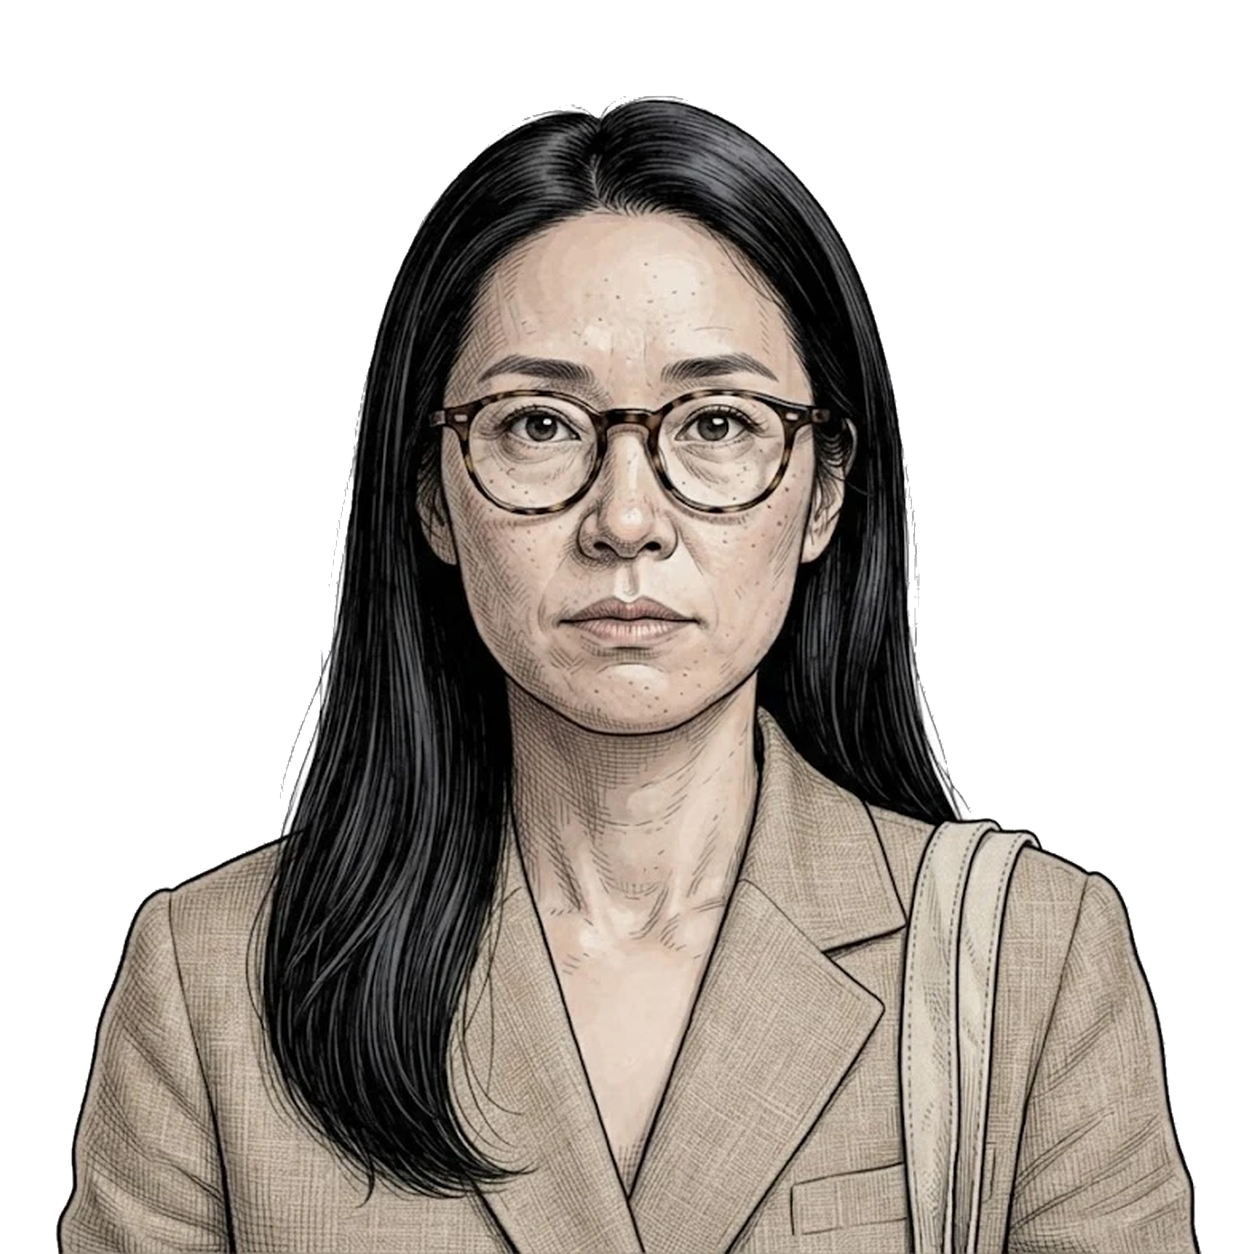
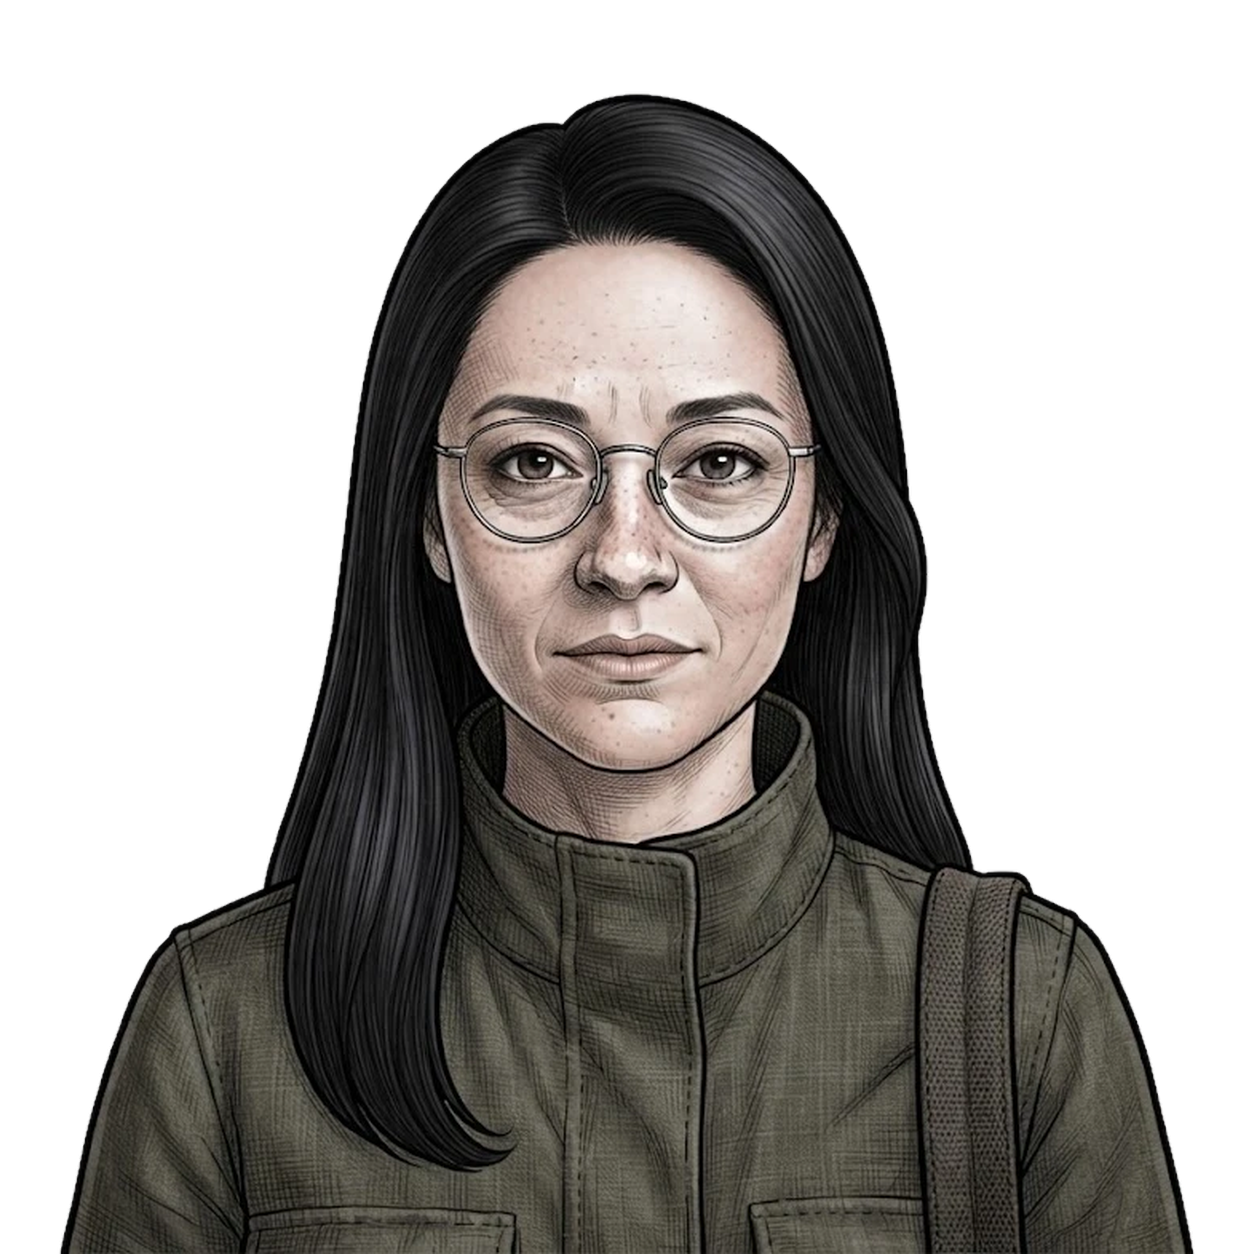
Portreler yenilendi: greta, sofia, kaya, naomi, rivka (halesiz)

diff --git a/Docs/IMAGE_REDO_PROMPTS.md b/Docs/IMAGE_REDO_PROMPTS.md
@@ -276,31 +276,31 @@ Forensic evidence illustration, three-quarter view on a neutral grey evidence ma
 
 Sorun: beyaz zeminden kesilirken saç uçlarında ve açık renk giysi kenarında beyaz hale kalıyor. Prompt'lar bunu baştan önleyecek biçimde değiştirildi: koyu kesintisiz dış çizgi, toplu ve koyu gölgeli saç, açık renk giysi yok, parlama yok. Karakterin kimliği (yaş, köken, saç rengi, ifade) aynı.
 
-## Greta Lombardi → `Characters/greta.png`
+## ✅ Greta Lombardi → `Characters/greta.png`
 
 ```
 A 30-year-old Italian woman, honey-blond hair tied back neatly in a low ponytail, shaded darker at the edges, swollen eyes from crying, freckles. Dusty mid-blue nurse's scrub top under an open denim jacket. Head-and-shoulders portrait only, arms and hands not visible, no table, facing the camera directly, eyes looking at the viewer, neutral seated posture as if across an interrogation table. Detailed ink-line graphic-novel illustration with soft painted shading, muted realistic colours, same style as a gritty detective game character sheet. Plain solid pure white background, no shadow on the background, no text, no border, no badges or insignia. CUTOUT RULES: the whole figure is surrounded by one bold, continuous, dark black ink outline with no gaps; hair is drawn as solid, dark-shaded masses with crisp outlined edges, no loose flyaway strands, no wispy or translucent hair, no light-coloured highlights on the outer edge of the hair; clothing is mid-to-dark in tone, nothing white, cream or pale grey anywhere on the outer silhouette; no rim light, no glow, no soft fade, no white outline, no halo around the figure; the background is flat pure white #FFFFFF and touches the dark outline directly.
 ```
 
-## Sofia Marchetti → `Characters/sofia.png`
+## ✅ Sofia Marchetti → `Characters/sofia.png`
 
 ```
 A 35-year-old Italian soprano, long auburn hair, styled smooth and close to the head, fair skin, dramatic dark eyeliner, proud wounded eyes. A golden opera costume gown with a velvet cloak over her shoulders. Head-and-shoulders portrait only, arms and hands not visible, no table, facing the camera directly, eyes looking at the viewer, neutral seated posture as if across an interrogation table. Detailed ink-line graphic-novel illustration with soft painted shading, muted realistic colours, same style as a gritty detective game character sheet. Plain solid pure white background, no shadow on the background, no text, no border, no badges or insignia. CUTOUT RULES: the whole figure is surrounded by one bold, continuous, dark black ink outline with no gaps; hair is drawn as solid, dark-shaded masses with crisp outlined edges, no loose flyaway strands, no wispy or translucent hair, no light-coloured highlights on the outer edge of the hair; clothing is mid-to-dark in tone, nothing white, cream or pale grey anywhere on the outer silhouette; no rim light, no glow, no soft fade, no white outline, no halo around the figure; the background is flat pure white #FFFFFF and touches the dark outline directly.
 ```
 
-## Elif Kaya → `Characters/kaya.png`
+## ✅ Elif Kaya → `Characters/kaya.png`
 
 ```
 A 31-year-old Turkish woman, long dark brown hair, smooth and gathered over one shoulder, warm brown eyes, nervous careful smile. A navy blue rehearsal top with a flamenco practice skirt. Head-and-shoulders portrait only, arms and hands not visible, no table, facing the camera directly, eyes looking at the viewer, neutral seated posture as if across an interrogation table. Detailed ink-line graphic-novel illustration with soft painted shading, muted realistic colours, same style as a gritty detective game character sheet. Plain solid pure white background, no shadow on the background, no text, no border, no badges or insignia. CUTOUT RULES: the whole figure is surrounded by one bold, continuous, dark black ink outline with no gaps; hair is drawn as solid, dark-shaded masses with crisp outlined edges, no loose flyaway strands, no wispy or translucent hair, no light-coloured highlights on the outer edge of the hair; clothing is mid-to-dark in tone, nothing white, cream or pale grey anywhere on the outer silhouette; no rim light, no glow, no soft fade, no white outline, no halo around the figure; the background is flat pure white #FFFFFF and touches the dark outline directly.
 ```
 
-## Naomi Park → `Characters/naomi.png`
+## ✅ Naomi Park → `Characters/naomi.png`
 
 ```
 A 36-year-old Korean-American woman, long straight black hair, round glasses, sharp intelligent face. A dark olive linen jacket with a canvas tote strap on her shoulder. Head-and-shoulders portrait only, arms and hands not visible, no table, facing the camera directly, eyes looking at the viewer, neutral seated posture as if across an interrogation table. Detailed ink-line graphic-novel illustration with soft painted shading, muted realistic colours, same style as a gritty detective game character sheet. Plain solid pure white background, no shadow on the background, no text, no border, no badges or insignia. CUTOUT RULES: the whole figure is surrounded by one bold, continuous, dark black ink outline with no gaps; hair is drawn as solid, dark-shaded masses with crisp outlined edges, no loose flyaway strands, no wispy or translucent hair, no light-coloured highlights on the outer edge of the hair; clothing is mid-to-dark in tone, nothing white, cream or pale grey anywhere on the outer silhouette; no rim light, no glow, no soft fade, no white outline, no halo around the figure; the background is flat pure white #FFFFFF and touches the dark outline directly.
 ```
 
-## Rivka Klein → `Characters/rivka.png`
+## ✅ Rivka Klein → `Characters/rivka.png`
 
 ```
 A 40-year-old Jewish-Canadian woman, dark shoulder-length hair in tight defined curls with solid dark shading, an intelligent tired face, grieving brown eyes. A navy wool coat. Head-and-shoulders portrait only, arms and hands not visible, no table, facing the camera directly, eyes looking at the viewer, neutral seated posture as if across an interrogation table. Detailed ink-line graphic-novel illustration with soft painted shading, muted realistic colours, same style as a gritty detective game character sheet. Plain solid pure white background, no shadow on the background, no text, no border, no badges or insignia. CUTOUT RULES: the whole figure is surrounded by one bold, continuous, dark black ink outline with no gaps; hair is drawn as solid, dark-shaded masses with crisp outlined edges, no loose flyaway strands, no wispy or translucent hair, no light-coloured highlights on the outer edge of the hair; clothing is mid-to-dark in tone, nothing white, cream or pale grey anywhere on the outer silhouette; no rim light, no glow, no soft fade, no white outline, no halo around the figure; the background is flat pure white #FFFFFF and touches the dark outline directly.
